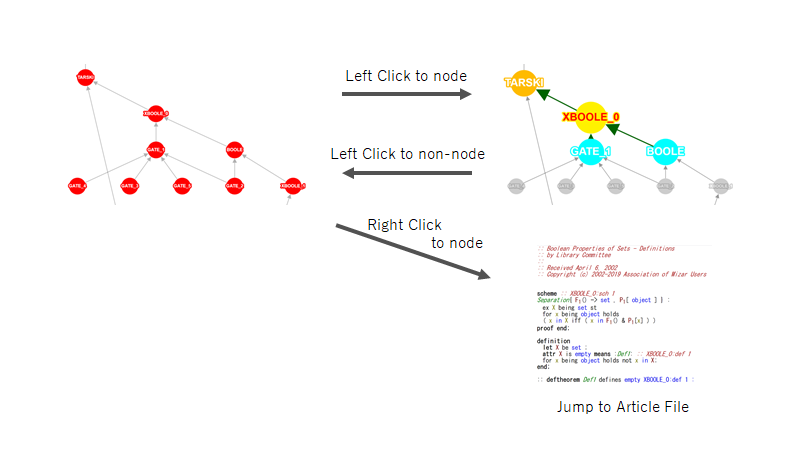
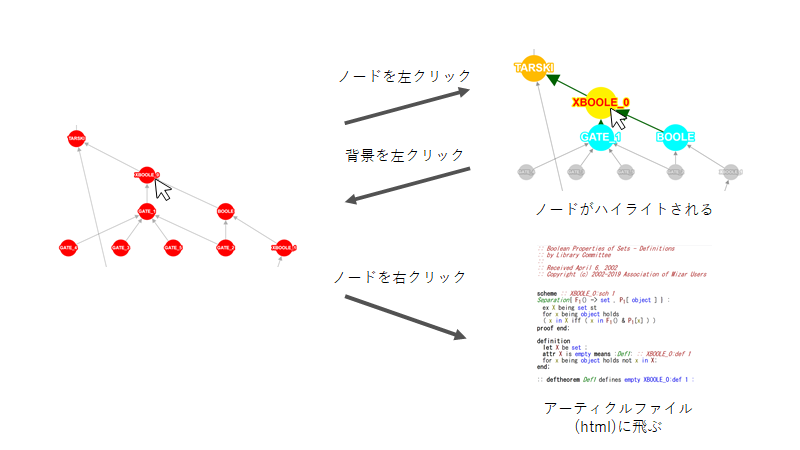
helpダイアログの画像を変更

diff --git a/graph/hierarchical_graph.html b/graph/hierarchical_graph.html
@@ -27,18 +27,28 @@
             <input type="number" name="descendant_generations" id="descendant_generations" value="1" min="0" max="100">
             <button type="button" value="re-highlight" id="re-highlight">re-highlight</button>
             <br>
-            <button type="button" value="reset" id="reset">reset</button>
             <a href="./clustering_graph.html">Clustering graph</a>
             <a href="./hierarchical_graph_hits.html">Apply Hits Authority</a>
             <a href="./hierarchical_graph_pagerank.html">Apply Hits Authority</a>
-            <input type="button" value="Help" onclick="document.getElementById('help_dialog').show()">
+            <input type="button" value="Help" id="help" onclick="document.getElementById('help_dialog').show()">
             <dialog id="help_dialog">
                 <h2>Usage</h2>
                 <div class="dialog_content">
-                    <img src="./static/emgraph/images/description-emgraph.png" alt="description-emgraph">
+                    <img src="./static/emgraph/images/description-emgraph.png" alt="description-emgraph" class="help-page">
+                    <img src="./static/emgraph/images/description-highlight-param.png" alt="description-highlight-param" class="help-page">
+                    <img src="./static/emgraph/images/description-highlight-coloring.png" alt="description-highligh-coloring" class="help-page">
+                    <ul>
+                        <li>
+                            Zoom In/Out: Wheel Scroll
+                        </li>
+                        <li>
+                            Move Graph: Left Drag
+                        </li>
+                    </ul>
+                    <input type="button" value="Close" onclick="document.getElementById('help_dialog').close()">
                 </div>
-                <input type="button" value="Close"  onclick="document.getElementById('help_dialog').close()">
             </dialog>
+            <button type="button" value="reset" id="reset">reset</button>
         </div>
         <div class="color_index hidden_show" id="highlight_coloring_index">
             <p><b>Highlight Coloring</b></p>

diff --git a/graph/style.css b/graph/style.css
@@ -34,6 +34,14 @@ button:active{
     width: 40px;
 }
 
+#help {
+    position: absolute;
+    right: 10px;
+    top: 10px;
+    height: 30px;
+    width: 70px;
+}
+
 dialog {
     padding: 10px;
     border: 1px solid #eee;
@@ -83,4 +91,12 @@ dialog input {
 
 .hidden_show {
     visibility: hidden;
+}
+
+#reset {
+    position: absolute;
+}
+
+.help-page {
+    height: 300px;
 }
